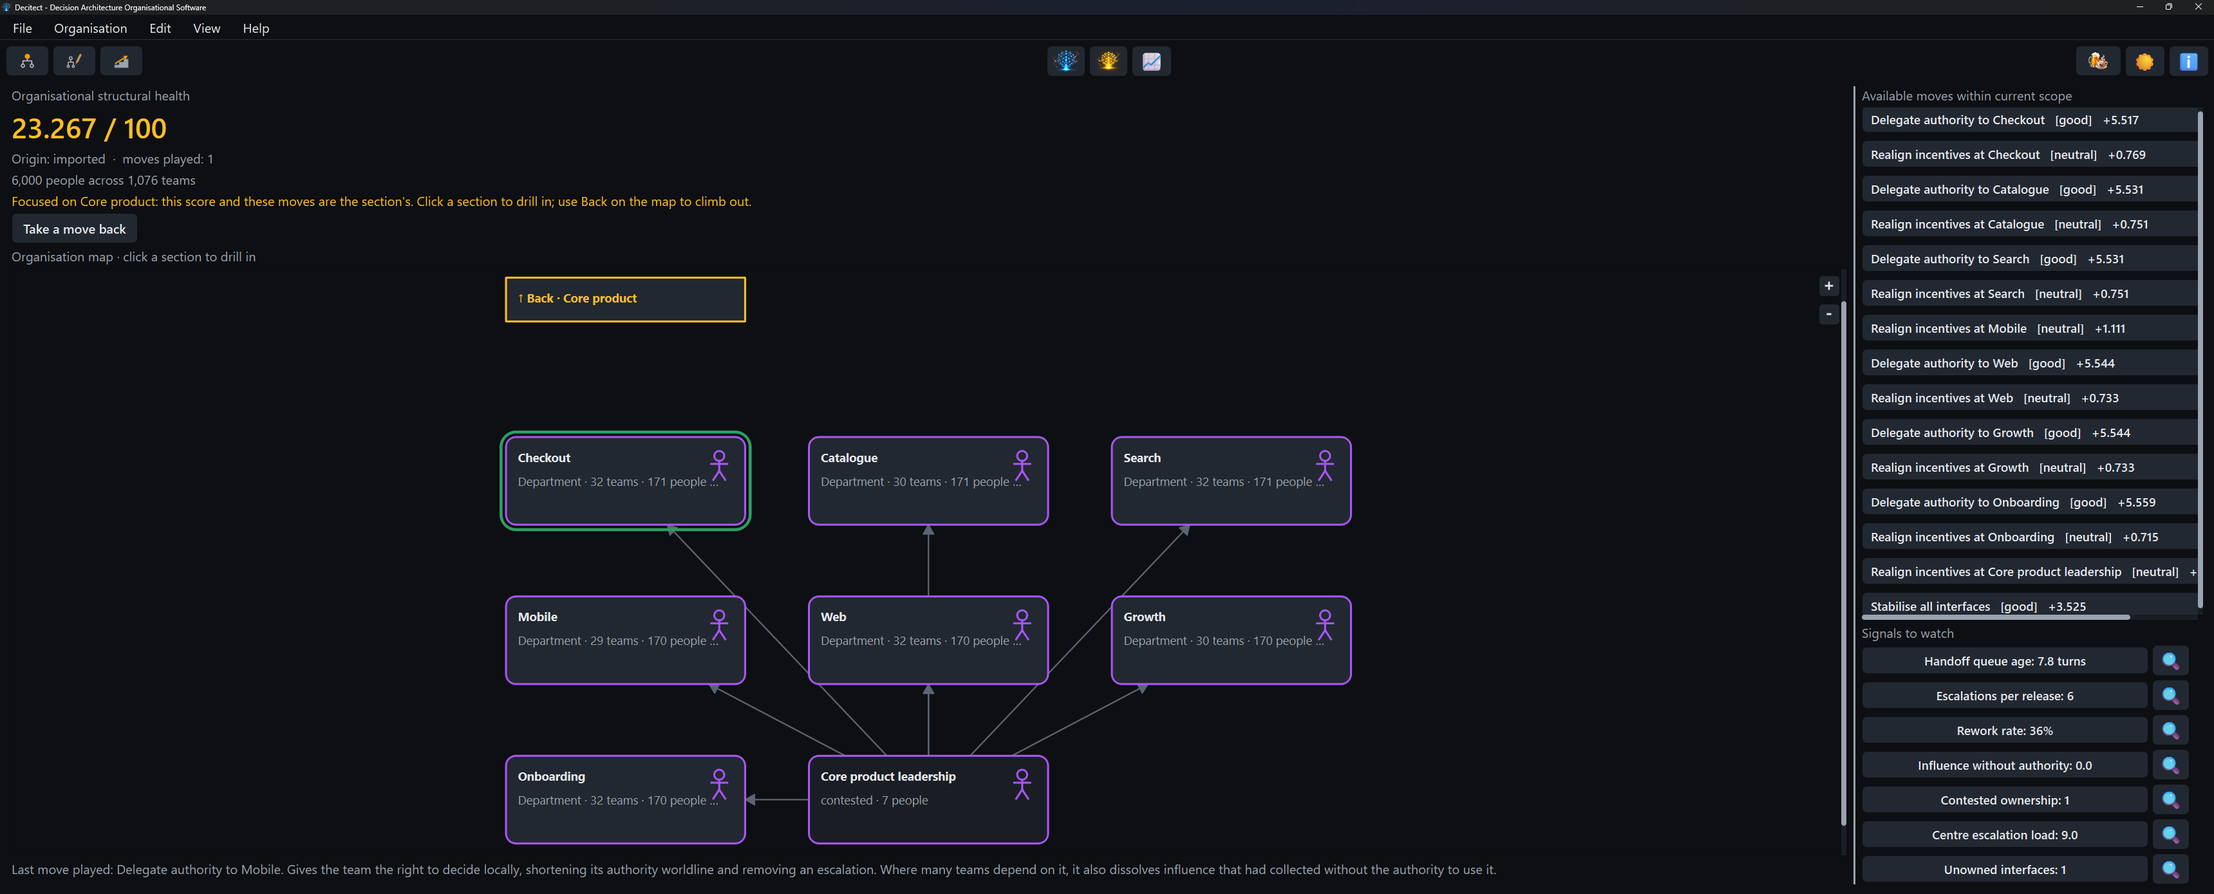
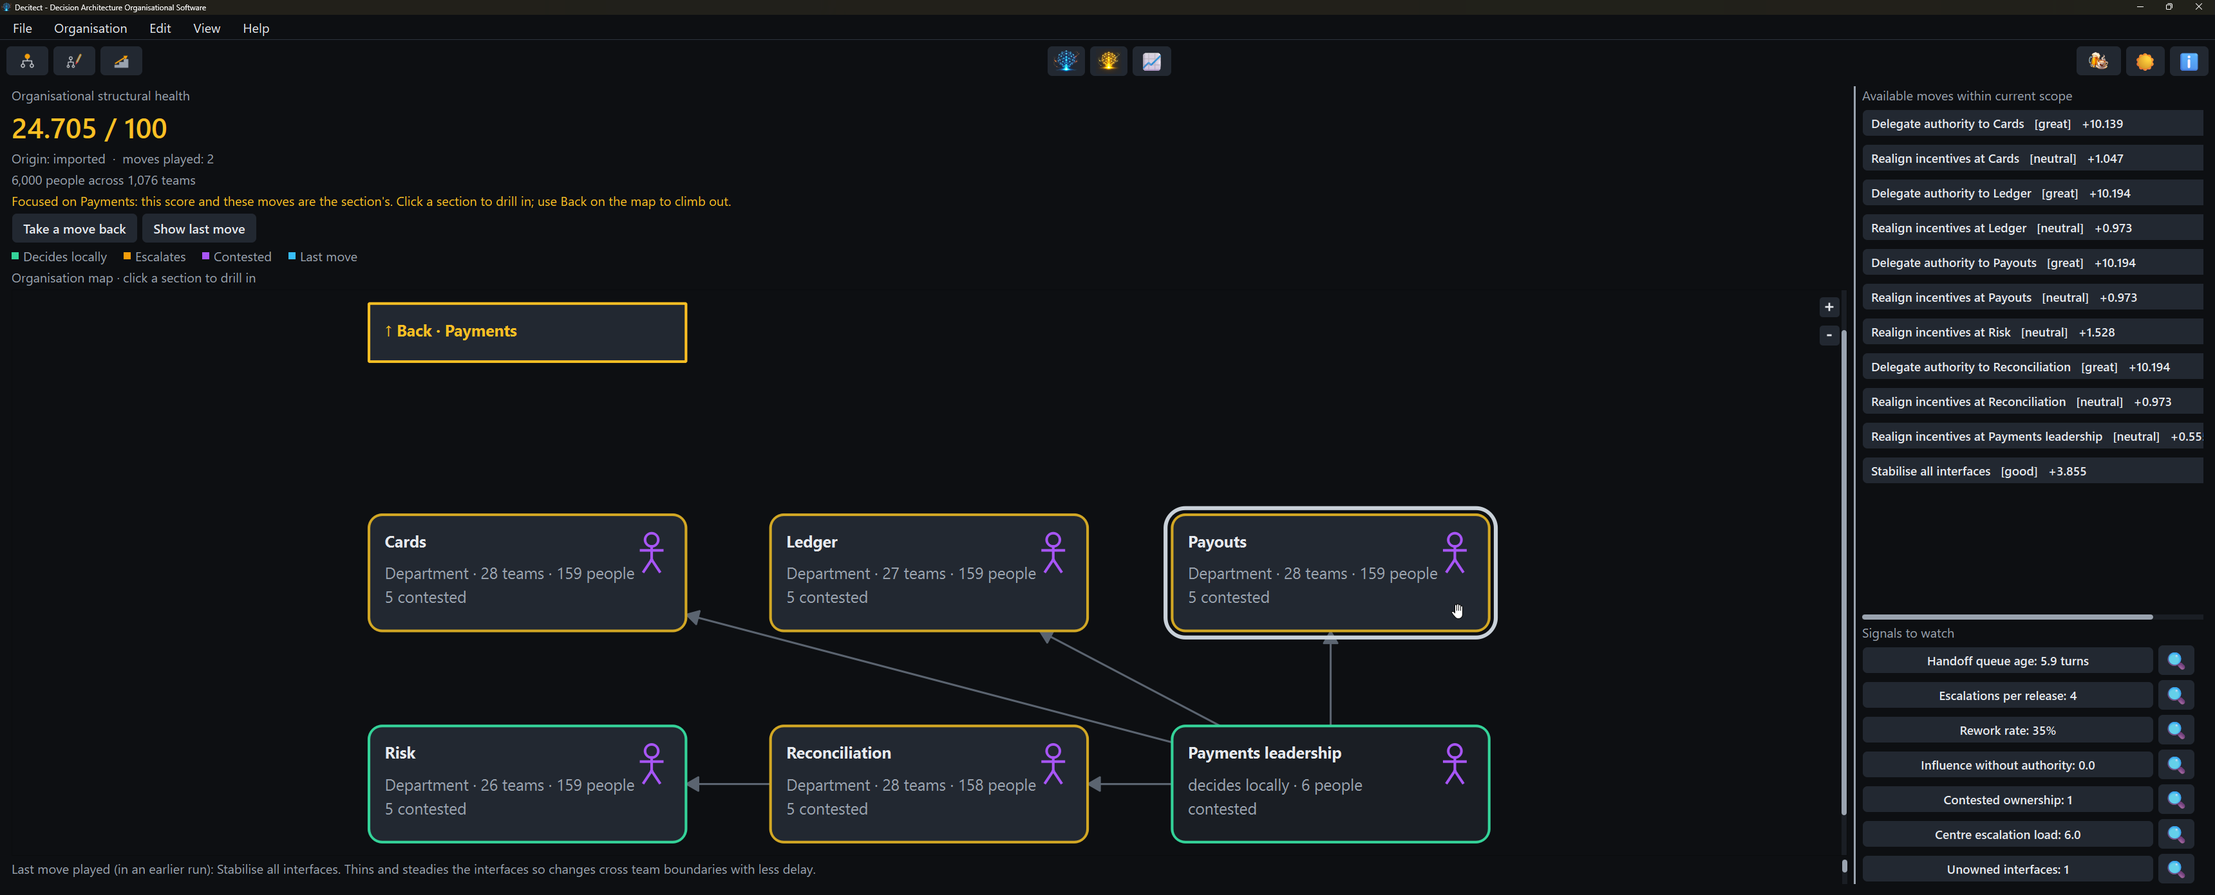
Document the last-move pulse, the authority border and the slimmer builds
VERSION moves to 5.1.0 and the site is stamped from it. The README, architecture, development and testing documents describe the pulse and Show last move, the border that reads authority with contest marked separately, the colour key, the PySide6-Essentials dependency and the Qt pieces every Nuitka build leaves out. DECISIONS-TRADEOFFS records the border, ring and pulse decisions as they now stand and adds the build-size one. TECH_DEBT figures are re-measured.

The play page carries a new board screenshot of the Payments section with its caption rewritten to match.

diff --git a/docs/play.html b/docs/play.html
@@ -61,23 +61,31 @@
       <div class="shots">
         <figure class="shot">
           <div class="frame">
-            <img width="3439" height="1389" loading="lazy" src="assets/screenshots/play-board.png" alt="The Decitect board drilled into the Core product section of the six-thousand-person enterprise, with the section's score, moves and signals; the header tray carries the donate button beside the light and dark toggle">
+            <img width="3440" height="1391" loading="lazy" src="assets/screenshots/play-board.png" alt="The Decitect board drilled into the Payments section of the six-thousand-person enterprise: the delegated Risk department and Payments leadership bordered green, four amber departments each marked with a violet glyph and five contested leads, the colour key under the take-back buttons, the section's score, graded moves and signals">
           </div>
           <figcaption><b>The position.</b> The shipped matrixed enterprise,
-            6,000 people across 1,076 teams, drilled into its Core product
-            section after one delegation: the 23.267 score and the listed
-            moves belong to this section, not the summit. Each department
-            stands as one node here beside the section's own leadership,
-            whose lead is contested and drawn violet. The board is precise
-            about what this frame wants: delegating authority to any one
-            department rates good at around +5.5, stabilising its
-            interfaces rates good at +3.525 and realigning a department's
-            incentives sits neutral at under +1.2. The seven signals flag
-            the 7.8-turn queue age, the 36% rework and a centre escalation
-            load of 9.0; a click on any department drills into it and the
-            corner chips zoom the map at any depth. In the header, the
-            donate mark sits just left of the light and dark
-            toggle.</figcaption>
+            6,000 people across 1,076 teams, drilled into its Payments
+            section two moves in: the 24.705 score and the listed moves
+            belong to this section, not the summit. Each department stands
+            as one node here beside the section's own leadership. Each
+            border reads authority, amber shading to green as more of a
+            box's teams decide locally: Payments leadership and the
+            already delegated Risk border green while Cards, Ledger,
+            Payouts and Reconciliation still escalate. A violet person glyph and
+            count mark contest separately, five contested leads in every
+            department. The key under Take a move back and Show last move
+            names every colour; the last move pulses sky blue when played
+            and Show last move plays it again. The board is precise about
+            what this frame wants: delegating authority to any of the four
+            amber departments rates great at over +10, stabilising all
+            interfaces rates good at +3.855 and realigning a department's
+            incentives sits neutral at +0.973 to +1.528. The seven signals
+            flag the 5.9-turn queue age, the 35% rework, a centre
+            escalation load of 6.0 and one unowned interface. The grey
+            ring round Payouts is the hover highlight: the pointer is
+            resting on it, showing that a click drills into that
+            department. The corner chips zoom the map at any depth. In the header, the donate mark sits just left of the
+            light and dark toggle.</figcaption>
         </figure>
         <figure class="shot">
           <div class="frame">
@@ -180,7 +188,7 @@
   <div class="container footer-inner">
     <div>
       <strong>Decitect</strong>: Decision Architecture Organisational Software<br>
-      (c) Oliver Ernster · Local-first · GPL-3.0 + LGPL-3.0 · v<!--VERSION-->5.0.0<!--/VERSION-->
+      (c) Oliver Ernster · Local-first · GPL-3.0 + LGPL-3.0 · v<!--VERSION-->5.1.0<!--/VERSION-->
     </div>
     <div class="footer-links">
       <a href="https://github.com/oernster/Decitect/releases">Releases</a>

diff --git a/docs/index.html b/docs/index.html
@@ -154,7 +154,7 @@
   <div class="container footer-inner">
     <div>
       <strong>Decitect</strong>: Decision Architecture Organisational Software<br>
-      (c) Oliver Ernster · Local-first · GPL-3.0 + LGPL-3.0 · v<!--VERSION-->5.0.0<!--/VERSION--><br>
+      (c) Oliver Ernster · Local-first · GPL-3.0 + LGPL-3.0 · v<!--VERSION-->5.1.0<!--/VERSION--><br>
       A commercial licence for my own code is also available, separately from the open-source licences: see <a href="https://ernster.dev/commercial-licensing.html">commercial licensing</a>.
     </div>
     <div class="footer-links">

diff --git a/docs/404.html b/docs/404.html
@@ -44,7 +44,7 @@
   <div class="container footer-inner">
     <div>
       <strong>Decitect</strong>: Decision Architecture Organisational Software<br>
-      (c) Oliver Ernster · Local-first · GPL-3.0 + LGPL-3.0 · v<!--VERSION-->5.0.0<!--/VERSION--><br>
+      (c) Oliver Ernster · Local-first · GPL-3.0 + LGPL-3.0 · v<!--VERSION-->5.1.0<!--/VERSION--><br>
       A commercial licence for my own code is also available, separately from the open-source licences: see <a href="https://ernster.dev/commercial-licensing.html">commercial licensing</a>.
     </div>
     <div class="footer-links">

diff --git a/docs/assumptions.html b/docs/assumptions.html
@@ -147,7 +147,7 @@
   <div class="container footer-inner">
     <div>
       <strong>Decitect</strong>: Decision Architecture Organisational Software<br>
-      (c) Oliver Ernster · Local-first · GPL-3.0 + LGPL-3.0 · v<!--VERSION-->5.0.0<!--/VERSION-->
+      (c) Oliver Ernster · Local-first · GPL-3.0 + LGPL-3.0 · v<!--VERSION-->5.1.0<!--/VERSION-->
     </div>
     <div class="footer-links">
       <a href="https://github.com/oernster/Decitect/releases">Releases</a>

diff --git a/docs/download.html b/docs/download.html
@@ -105,7 +105,7 @@
   <div class="container footer-inner">
     <div>
       <strong>Decitect</strong>: Decision Architecture Organisational Software<br>
-      (c) Oliver Ernster · Local-first · GPL-3.0 + LGPL-3.0 · v<!--VERSION-->5.0.0<!--/VERSION-->
+      (c) Oliver Ernster · Local-first · GPL-3.0 + LGPL-3.0 · v<!--VERSION-->5.1.0<!--/VERSION-->
     </div>
     <div class="footer-links">
       <a href="https://github.com/oernster/Decitect/releases">Releases</a>

diff --git a/docs/model.html b/docs/model.html
@@ -112,7 +112,7 @@
   <div class="container footer-inner">
     <div>
       <strong>Decitect</strong>: Decision Architecture Organisational Software<br>
-      (c) Oliver Ernster · Local-first · GPL-3.0 + LGPL-3.0 · v<!--VERSION-->5.0.0<!--/VERSION-->
+      (c) Oliver Ernster · Local-first · GPL-3.0 + LGPL-3.0 · v<!--VERSION-->5.1.0<!--/VERSION-->
     </div>
     <div class="footer-links">
       <a href="https://github.com/oernster/Decitect/releases">Releases</a>

diff --git a/docs/testing.html b/docs/testing.html
@@ -163,7 +163,7 @@
   <div class="container footer-inner">
     <div>
       <strong>Decitect</strong>: Decision Architecture Organisational Software<br>
-      (c) Oliver Ernster · Local-first · GPL-3.0 + LGPL-3.0 · v<!--VERSION-->5.0.0<!--/VERSION-->
+      (c) Oliver Ernster · Local-first · GPL-3.0 + LGPL-3.0 · v<!--VERSION-->5.1.0<!--/VERSION-->
     </div>
     <div class="footer-links">
       <a href="https://github.com/oernster/Decitect/releases">Releases</a>

diff --git a/docs/tool.html b/docs/tool.html
@@ -146,7 +146,7 @@
   <div class="container footer-inner">
     <div>
       <strong>Decitect</strong>: Decision Architecture Organisational Software<br>
-      (c) Oliver Ernster · Local-first · GPL-3.0 + LGPL-3.0 · v<!--VERSION-->5.0.0<!--/VERSION-->
+      (c) Oliver Ernster · Local-first · GPL-3.0 + LGPL-3.0 · v<!--VERSION-->5.1.0<!--/VERSION-->
     </div>
     <div class="footer-links">
       <a href="https://github.com/oernster/Decitect/releases">Releases</a>

diff --git a/docs/vocabulary.html b/docs/vocabulary.html
@@ -151,7 +151,7 @@
   <div class="container footer-inner">
     <div>
       <strong>Decitect</strong>: Decision Architecture Organisational Software<br>
-      (c) Oliver Ernster · Local-first · GPL-3.0 + LGPL-3.0 · v<!--VERSION-->5.0.0<!--/VERSION-->
+      (c) Oliver Ernster · Local-first · GPL-3.0 + LGPL-3.0 · v<!--VERSION-->5.1.0<!--/VERSION-->
     </div>
     <div class="footer-links">
       <a href="https://github.com/oernster/Decitect/releases">Releases</a>

diff --git a/docs/weights.html b/docs/weights.html
@@ -203,7 +203,7 @@
   <div class="container footer-inner">
     <div>
       <strong>Decitect</strong>: Decision Architecture Organisational Software<br>
-      (c) Oliver Ernster · Local-first · GPL-3.0 + LGPL-3.0 · v<!--VERSION-->5.0.0<!--/VERSION-->
+      (c) Oliver Ernster · Local-first · GPL-3.0 + LGPL-3.0 · v<!--VERSION-->5.1.0<!--/VERSION-->
     </div>
     <div class="footer-links">
       <a href="https://github.com/oernster/Decitect/releases">Releases</a>

diff --git a/docs/why.html b/docs/why.html
@@ -113,7 +113,7 @@
   <div class="container footer-inner">
     <div>
       <strong>Decitect</strong>: Decision Architecture Organisational Software<br>
-      (c) Oliver Ernster · Local-first · GPL-3.0 + LGPL-3.0 · v<!--VERSION-->5.0.0<!--/VERSION-->
+      (c) Oliver Ernster · Local-first · GPL-3.0 + LGPL-3.0 · v<!--VERSION-->5.1.0<!--/VERSION-->
     </div>
     <div class="footer-links">
       <a href="https://github.com/oernster/Decitect/releases">Releases</a>

diff --git a/TECH_DEBT.md b/TECH_DEBT.md
@@ -10,13 +10,13 @@ A standing reference to the project's outstanding technical debt. It records wha
 
 It is small and the contract is honest (the docstring says the composition root sets it once), so the cost of the debt is low: the real price is that scale is global, so nothing can render at two scales and no test can vary the factor without leaking into the next test. Converting it to a `UiScale` value object injected down from `main.py` is the correct shape.
 
-**Blocked on an owner decision.** 23 of the 57 UI modules import `ui_scale` directly and everything sized flows through them; the UI is outside the coverage gate, so threading an injected value object through them is a wide, behaviour-neutral edit whose only verification is by eye on a real window. The direction is settled; the appetite for that edit (and when to spend it) is not. It stays open until the owner says to spend it.
+**Blocked on an owner decision.** 24 of the 60 UI modules import `ui_scale` directly and everything sized flows through them; the UI is outside the coverage gate, so threading an injected value object through them is a wide, behaviour-neutral edit whose only verification is by eye on a real window. The direction is settled; the appetite for that edit (and when to spend it) is not. It stays open until the owner says to spend it.
 
-## 2. The UI layer is 8517 lines with no coverage and some of it is not UI
+## 2. The UI layer is 8789 lines with no coverage and some of it is not UI
 
 `.coveragerc` omits `*/ui/*` wholesale, which `TESTING.md` documents as deliberate. For painting, layout and Qt wiring that is correct and matches every other project here.
 
-The open question is how much of those 57 modules is actually presentation. `org_editor.py`, `org_guide_dialog.py` and the board widgets carry sequencing and state-shaping decisions; each one of those is a decision no test can see. There is no proposal here to test Qt. The item is to keep pulling the decision-shaped parts down into `decitect/application` (where `org_draft.py` and `org_guide.py` show the pattern already working) so the omitted surface shrinks toward genuine presentation. This is continuous, not a task with an end state; it is recorded so the omission is never read as "the UI has no logic". The installer's split into a gated `installer_logic.py` and an untested Qt surface is the same move done in one go; it is the shape to copy.
+The open question is how much of those 60 modules is actually presentation. `org_editor.py`, `org_guide_dialog.py` and the board widgets carry sequencing and state-shaping decisions; each one of those is a decision no test can see. There is no proposal here to test Qt. The item is to keep pulling the decision-shaped parts down into `decitect/application` (where `org_draft.py` and `org_guide.py` show the pattern already working) so the omitted surface shrinks toward genuine presentation. This is continuous, not a task with an end state; it is recorded so the omission is never read as "the UI has no logic". The installer's split into a gated `installer_logic.py` and an untested Qt surface is the same move done in one go; it is the shape to copy.
 
 ## 3. The frozen-build worker pool has never been exercised
 
@@ -30,18 +30,18 @@ It has not been run against a real Nuitka standalone build. Under freezing, each
 
 With ruff 0.15.22 (the repo venv's), `ruff check .` passes clean and exits zero; that is ruff's default selection (E4, E7, E9 and F) doing very little work. `requirements-dev.txt` pins `ruff==0.15.22`, so a fresh install runs the same rules. Moving the pin to 0.16 is its own piece of work: ruff 0.16.0 widens its default selection and the same command reports 11 findings and exits 1 (nine `I001` unsorted import blocks, one `UP035` and one `SIM117`, all auto-fixable), across `main_window.py`, `complete_map_painter.py`, `github_release_source.py`, four installer modules and four test modules, which would be cleared in the commit that moves the pin.
 
-Run with `--select ALL` under ruff 0.15.22 the repository reports **5336 findings**, of which 336 are auto-fixable with `--fix` and a further 1023 sit behind `--unsafe-fixes`. The largest families:
+Run with `--select ALL` under ruff 0.15.22 the repository reports **5415 findings**, of which 337 are auto-fixable with `--fix` and a further 1035 sit behind `--unsafe-fixes`. The largest families:
 
 | Rule | Count | What it is |
 |---|---|---|
-| `S101` | 1368 | `assert` (every assertion in the suite; noise, not debt) |
-| `ANN001`, `ANN201`, `ANN202` | 1318 | missing type annotations |
-| `D1xx`, `D4xx` | 1012 | missing and non-imperative docstrings |
-| `COM812` | 293 | missing trailing comma (auto-fixable) |
-| `FBT003` | 285 | boolean positional argument in a call |
-| `TC001`, `TC002`, `TC003` | 156 | imports that could move under `TYPE_CHECKING` |
-| `T201` | 107 | `print` (the analysis and build scripts, by design) |
-| `PLR2004` | 89 | magic value in a comparison |
+| `S101` | 1380 | `assert` (every assertion in the suite; noise, not debt) |
+| `ANN001`, `ANN201`, `ANN202` | 1339 | missing type annotations |
+| `D1xx`, `D4xx` | 1032 | missing and non-imperative docstrings |
+| `COM812` | 294 | missing trailing comma (auto-fixable) |
+| `FBT003` | 290 | boolean positional argument in a call |
+| `TC001`, `TC002`, `TC003` | 161 | imports that could move under `TYPE_CHECKING` |
+| `T201` | 105 | `print` (the analysis and build scripts, by design) |
+| `PLR2004` | 91 | magic value in a comparison |
 
 Two findings matter more than the counts. `DTZ` (naive datetime) is **zero**: every timestamp in the repo is timezone-aware, so the correctness risk that family exists to catch is absent. `PLR2004` is the family that touches the repo's own no-magic-numbers rule and is the one worth reading properly.
 
@@ -55,7 +55,7 @@ Clearing this means one dedicated commit per rule family, each with the gate gre
 
 ## Looks like debt, not worth touching
 
-- The modules between 351 and 379 lines (`hierarchy.py`, `simulation.py`, `models.py`, `org_draft.py`, `org_guide.py`, `game_session.py`, `glossary.py`, `org_guide_dialog.py`, `board_view.py`, `theme.py` and the installer's `installer_logic.py`, `installer_widgets.py` and `installer_window.py`) are under the cap and clear of the danger band. `simulation.py` is the closest at 379, two lines short of the band; its next growth should lift a cohesive slice out rather than add to it.
+- The modules between 351 and 379 lines (`hierarchy.py`, `simulation.py`, `models.py`, `org_draft.py`, `org_guide.py`, `game_session.py`, `glossary.py`, `org_guide_dialog.py`, `board_view.py`, `org_map_view.py`, `theme.py` and the installer's `installer_logic.py`, `installer_widgets.py` and `installer_window.py`) are under the cap and clear of the danger band. `simulation.py` is the closest at 379, two lines short of the band; its next growth should lift a cohesive slice out rather than add to it.
 - The `org_guide_*` family (`org_guide.py`, `_compose`, `_growth`, `_parallel`) reads as a file that got split four ways. It is the 400-line cap doing its job and each part is cohesive; merging them would breach the cap immediately.
 - The dual GPL-3.0 model and LGPL-3.0 UI split, with three licence files at root plus `INSTALLER_LICENSE`, looks like duplication. It is the deliberate licence design and every file is load-bearing.
 - The four `except Exception` blocks in the installer (`installer_ops.py` once, `installer_window.py` three times) each carry a `# noqa: BLE001` and a reason; each one is a degrade-gracefully path where a raised exception is worse than a status message. Correct as written.
@@ -66,10 +66,10 @@ These look like candidates but are correct as they stand; changing them would re
 
 - **`multiprocessing.freeze_support()` guarded by `if __name__ == "__main__"` in `main.py`.** It looks like boilerplate that could move into the app. It cannot: it has to run before any other import-time work in a frozen worker; the module guard is what stops a spawned worker starting a second Decitect.
 - **The `BrokenProcessPool` in-process fallbacks.** They duplicate the chunking loop and look like copy-paste. Each is a different pricing function with different progress semantics; the duplication is the price of never failing a guide because a worker died.
-- **The delivery scripts' length** (`builddmg.py` 631, `buildexe.py` and `buildinstaller.py` 319 each). These are linear recipes read top to bottom and are exempt from the module cap by design. Do not raise length against them. The installer under `installer/` is not one of these: it is a second application and is held to the cap.
+- **The delivery scripts' length** (`builddmg.py` 634, `buildexe.py` 331, `buildinstaller.py` 325). These are linear recipes read top to bottom and are exempt from the module cap by design. Do not raise length against them. The installer under `installer/` is not one of these: it is a second application and is held to the cap.
 - **The coverage omissions of `main.py`, `shared/resources.py`, `application/interfaces.py` and `version.py`.** Composition root, resource path resolution, Protocol declarations and a version reader. Nothing there is a decision; testing them would test the language.
 - **The coverage omissions of the installer's Qt and side-effect modules** (`app.py`, `installer_bundle.py`, `installer_lifecycle.py`, `installer_ops.py`, `installer_startup.py`, `installer_theme.py`, `installer_widgets.py`, `installer_window.py`). The decisions were lifted into `installer_logic.py` and the command text it produces into `installer_scripts.py`, both gated at 100%; what remains is widgets, a registry and subprocess edge plus the composition that wires them. Testing `installer_ops.py` would mean writing to the real HKCU hive.
 - **`docs/` being hand-maintained with no generator.** The generator that used to write `docs/index.html` was retired because it had diverged: it emitted a single page with no navigation while the live site carries ten further hand-written pages. The site is authored, not built. Do not reintroduce a generator without teaching it the whole page set.
 - **`VERSION` as the only real version string, with `stamp_version.py` writing the delimited tokens into the `docs/` site.** The apparent duplication is generated, not maintained. No documentation outside the site carries version data.
 - **Only `buildexe.py` and `buildinstaller.py` calling `stamp_version.main()`.** `builddmg.py` and `build_flatpak.sh` deliberately do not stamp. The app reads `VERSION` at runtime and every build bundles it, so About is right on every platform. The site is committed files published from `main`, stamped when the version is bumped. Stamping from the macOS and Linux builds would rewrite tracked files on a machine that is not making the release commit.
-- **The 48 tracked PNGs.** Each image has one source and the copies are generated from it. `generate_icons.py` emits the app icon set and its provenance kin from `decitect.png`; `generate_button_icons.py` draws the header icons and writes the app's render of the donate mark from `assets/donate.png` (the site's copy is the shared mark, not generated); the book covers keep web-sized copies under `docs/`; the stepper arrows and the site screenshots are single files. This is the single-master rule working, not asset sprawl.
+- **The 49 tracked PNGs.** Each image has one source and the copies are generated from it. `generate_icons.py` emits the app icon set and its provenance kin from `decitect.png`; `generate_button_icons.py` draws the header icons and writes the app's render of the donate mark from `assets/donate.png` (the site's copy is the shared mark, not generated); the book covers are held to the height the app draws them under `assets/books`, while the site keeps its own copies under `docs/`; the stepper arrows, the site's touch icon and the site screenshots are single files. This is the single-master rule working, not asset sprawl.
